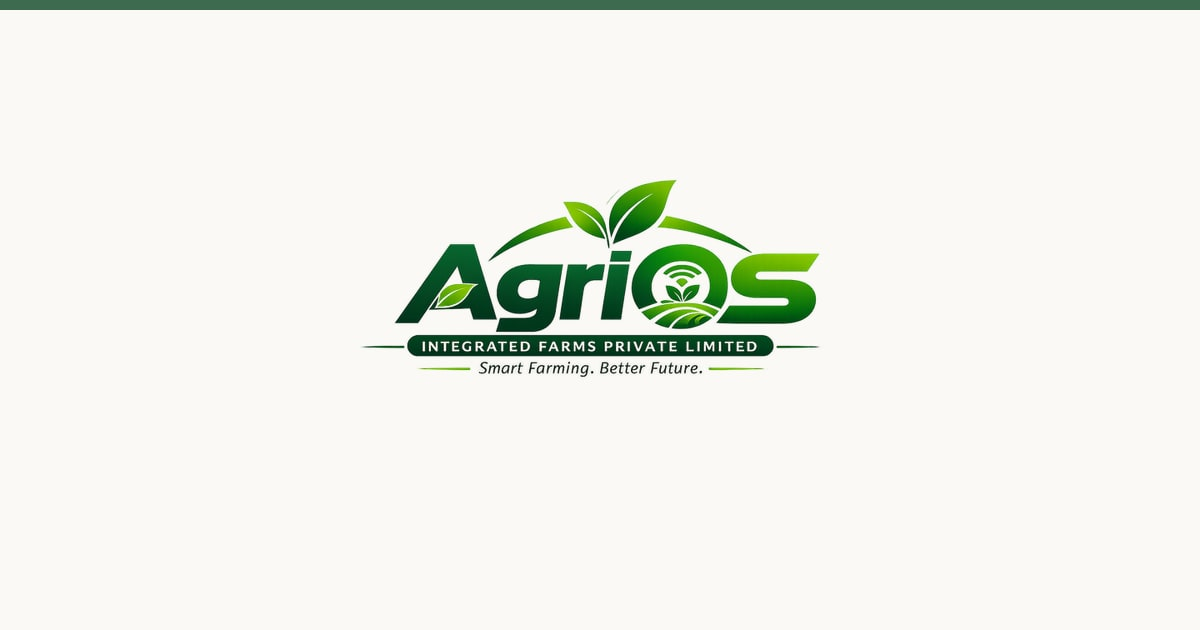
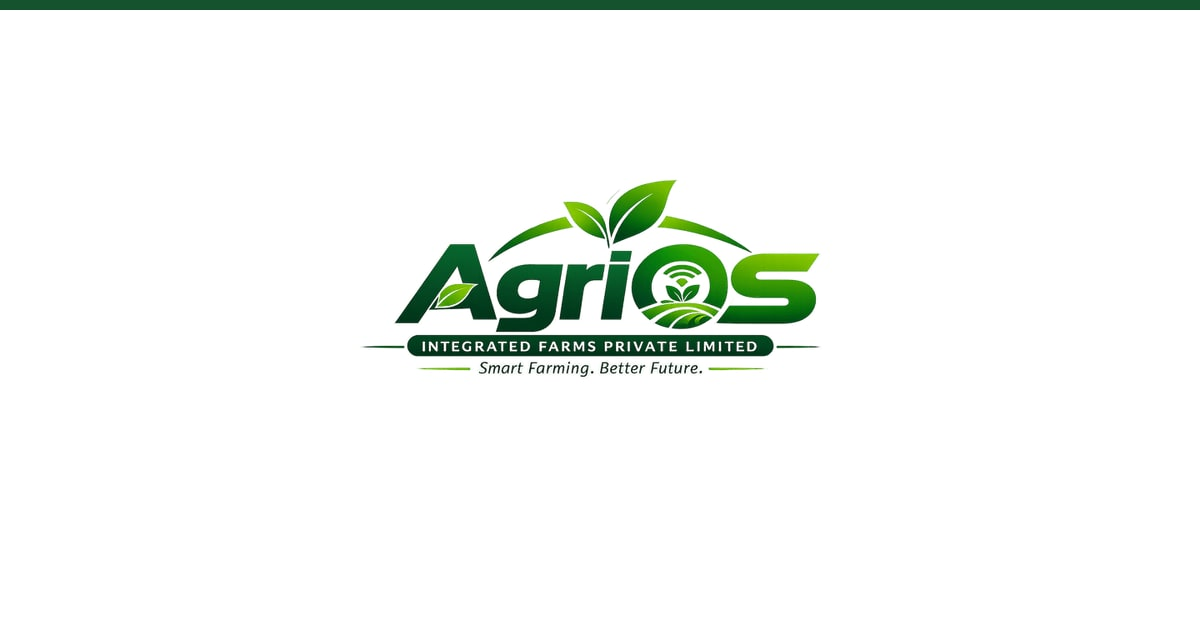
Retheme: deep forest green + bright green on white
- New palette: primary #14532D, accent #16A34A, bg #FFFFFF, text #0F1F16
- Remap terracotta accent -> bright green across buttons, pills, SVG cycle
- Warm neutrals -> cool green-grays; light-peach highlights on dark bands -> light green
- Regenerate og-image to match (white bg, deep-green accent bar)

Changed region(s): [[0.0, 0.0, 1.0, 0.0302]]

diff --git a/index.html b/index.html
@@ -59,16 +59,16 @@
 <link href="https://fonts.googleapis.com/css2?family=Hanken+Grotesk:wght@400;500;600;700&display=swap" rel="stylesheet">
 <style>
   :root{
-    --paper:#FAF9F5;
-    --paper-2:#F3F1E9;
-    --green:#3D6B4F;
-    --green-d:#2F5540;
-    --green-tint:#EDF1EA;
-    --clay:#CC785C;
-    --clay-tint:#F7EDE8;
-    --ink:#1A1A17;
-    --muted:#5A574E;
-    --line:#E4E0D5;
+    --paper:#FFFFFF;
+    --paper-2:#F4F8F5;
+    --green:#14532D;
+    --green-d:#0E3D20;
+    --green-tint:#E6F0E9;
+    --clay:#16A34A;
+    --clay-tint:#DCFCE7;
+    --ink:#0F1F16;
+    --muted:#4E5B54;
+    --line:#E4EAE5;
     --radius:14px;
     --maxw:1120px;
   }
@@ -88,7 +88,7 @@
   /* ---------- Header ---------- */
   header{
     position:sticky;top:0;z-index:50;
-    background:rgba(250,249,245,0.88);
+    background:rgba(255,255,255,0.85);
     backdrop-filter:blur(10px);
     border-bottom:1px solid var(--line);
   }
@@ -159,7 +159,7 @@
     background:#fff;border:1px solid var(--line);border-radius:var(--radius);
     padding:26px 24px;transition:transform .18s, box-shadow .18s;
   }
-  .card:hover{transform:translateY(-3px);box-shadow:0 8px 26px rgba(45,85,64,0.08)}
+  .card:hover{transform:translateY(-3px);box-shadow:0 8px 26px rgba(20,83,45,0.08)}
   .card .ic{
     width:44px;height:44px;border-radius:11px;background:var(--green-tint);color:var(--green);
     display:flex;align-items:center;justify-content:center;font-size:22px;margin-bottom:16px;
@@ -194,12 +194,12 @@
   .cnode:hover{transform:scale(1.06)}
   .cycle-center{font-family:'Hanken Grotesk',sans-serif}
   .cycle-panel{min-height:200px}
-  .cycle-panel .cp-tag{font-size:12px;letter-spacing:1.4px;text-transform:uppercase;font-weight:600;color:#F0C4B2;margin-bottom:10px;display:block}
+  .cycle-panel .cp-tag{font-size:12px;letter-spacing:1.4px;text-transform:uppercase;font-weight:600;color:#86EFAC;margin-bottom:10px;display:block}
   .cycle-panel h3{color:#fff;font-size:24px;margin-bottom:10px}
   .cycle-panel p{color:#DCE7DF;font-size:16px;line-height:1.6;margin-bottom:18px}
   .cycle-flow{display:flex;align-items:center;gap:8px;flex-wrap:wrap}
   .cycle-flow span{background:rgba(255,255,255,0.12);color:#fff;font-size:13px;font-weight:500;padding:6px 13px;border-radius:20px}
-  .cycle-flow .arr{background:none;color:#F0C4B2;padding:0;font-size:15px}
+  .cycle-flow .arr{background:none;color:#86EFAC;padding:0;font-size:15px}
   .cycle-hint{font-size:13px;color:#BFD6C7;margin-top:16px;font-style:italic}
   @media(max-width:860px){.cycle-wrap{grid-template-columns:1fr;gap:24px}.cycle-panel{min-height:auto}}
 
@@ -227,7 +227,7 @@
   .rm-step:last-child::before{right:50%}
   .rm-dot{width:30px;height:30px;border-radius:50%;background:var(--clay);color:#fff;display:flex;align-items:center;justify-content:center;font-size:13px;font-weight:600;position:relative;z-index:2;margin:0 auto 16px}
   .rm-step.done .rm-dot{background:#fff;color:var(--green-d)}
-  .rm-yr{font-size:12px;color:#F0C4B2;font-weight:600;text-align:center;margin-bottom:6px}
+  .rm-yr{font-size:12px;color:#86EFAC;font-weight:600;text-align:center;margin-bottom:6px}
   .rm-t{font-size:14px;font-weight:600;color:#fff;text-align:center;margin-bottom:6px}
   .rm-d{font-size:12.5px;color:#CFE0D4;text-align:center;line-height:1.45}
   @media(max-width:760px){.roadmap{grid-template-columns:1fr;gap:22px}.rm-step::before{display:none}.rm-dot{margin:0 0 10px}.rm-yr,.rm-t,.rm-d{text-align:left}}
@@ -244,7 +244,7 @@
 
   /* ---------- Gallery ---------- */
   .gallery{display:grid;grid-template-columns:repeat(3,1fr);gap:14px;margin-top:8px}
-  .gallery .gcell{aspect-ratio:4/3;border-radius:12px;background:var(--green-tint);border:1px dashed #B9CCC0;display:flex;flex-direction:column;align-items:center;justify-content:center;color:var(--green);gap:6px;overflow:hidden}
+  .gallery .gcell{aspect-ratio:4/3;border-radius:12px;background:var(--green-tint);border:1px dashed #C3D6C9;display:flex;flex-direction:column;align-items:center;justify-content:center;color:var(--green);gap:6px;overflow:hidden}
   .gallery .gcell.wide{grid-column:span 2}
   .gallery .gcell .gi{font-size:30px;opacity:.7}
   .gallery .gcell .gt{font-size:12.5px;color:var(--muted);font-weight:500}
@@ -302,7 +302,7 @@
   .prod-cat p{font-size:14.5px;color:var(--muted);margin-top:6px;max-width:56ch}
   .feed-feature{display:grid;grid-template-columns:1.1fr 1fr;gap:0;border-radius:var(--radius);overflow:hidden;border:1px solid var(--line);margin-top:8px}
   .feed-left{background:var(--green);color:#fff;padding:44px 42px}
-  .feed-left .fl-eye{font-size:12px;letter-spacing:1.6px;text-transform:uppercase;color:#F0C4B2;font-weight:600;margin-bottom:14px}
+  .feed-left .fl-eye{font-size:12px;letter-spacing:1.6px;text-transform:uppercase;color:#86EFAC;font-weight:600;margin-bottom:14px}
   .feed-left h2{font-size:30px;font-weight:600;color:#fff;margin-bottom:14px;line-height:1.15}
   .feed-left p{font-size:15.5px;color:#DCE7DF;line-height:1.6;margin-bottom:14px}
   .feed-left .fl-badge{display:inline-flex;align-items:center;gap:8px;background:rgba(255,255,255,0.12);padding:8px 14px;border-radius:20px;font-size:13px;font-weight:500;margin-top:4px}
@@ -322,7 +322,7 @@
     width:100%;padding:12px 14px;border:1px solid var(--line);border-radius:10px;
     font-family:inherit;font-size:15px;background:#fff;color:var(--ink);transition:border-color .18s, box-shadow .18s;
   }
-  .field input:focus,.field textarea:focus{outline:none;border-color:var(--green);box-shadow:0 0 0 3px rgba(61,107,79,.12)}
+  .field input:focus,.field textarea:focus{outline:none;border-color:var(--green);box-shadow:0 0 0 3px rgba(20,83,45,.14)}
   .field textarea{resize:vertical;min-height:120px}
   .contact-info{background:var(--green-tint);border-radius:var(--radius);padding:30px}
   .info-row{display:flex;gap:14px;align-items:flex-start;margin-bottom:22px}
@@ -336,19 +336,19 @@
   .note{font-size:12.5px;color:var(--muted);margin-top:10px}
 
   /* ---------- Footer ---------- */
-  footer{background:var(--ink);color:#CFCCC3;padding:52px 0 30px;margin-top:20px}
+  footer{background:var(--ink);color:#C4CFC8;padding:52px 0 30px;margin-top:20px}
   .foot-grid{display:grid;grid-template-columns:1.6fr 1fr 1fr;gap:36px;margin-bottom:34px}
   footer .brand{color:#fff;margin-bottom:14px}
   footer .brand .logo{background:var(--clay)}
   .footer-logo{width:132px;height:auto;background:#fff;border-radius:12px;padding:12px;margin-bottom:14px;display:block}
   .footer-tag{font-size:13px;color:var(--clay);font-weight:600;letter-spacing:.3px;margin-top:6px}
-  footer p{font-size:14px;color:#9F9C93;max-width:38ch}
-  footer h4{font-size:13px;text-transform:uppercase;letter-spacing:1px;color:#7C7970;margin-bottom:14px;font-weight:600}
+  footer p{font-size:14px;color:#93A099;max-width:38ch}
+  footer h4{font-size:13px;text-transform:uppercase;letter-spacing:1px;color:#75847C;margin-bottom:14px;font-weight:600}
   footer ul{list-style:none}
   footer ul li{margin-bottom:9px}
-  footer ul a{font-size:14px;color:#CFCCC3;cursor:pointer;transition:color .15s}
+  footer ul a{font-size:14px;color:#C4CFC8;cursor:pointer;transition:color .15s}
   footer ul a:hover{color:#fff}
-  .foot-bottom{border-top:1px solid #33322D;padding-top:22px;display:flex;justify-content:space-between;flex-wrap:wrap;gap:10px;font-size:13px;color:#7C7970}
+  .foot-bottom{border-top:1px solid #24332B;padding-top:22px;display:flex;justify-content:space-between;flex-wrap:wrap;gap:10px;font-size:13px;color:#75847C}
 
   /* ---------- Responsive ---------- */
   @media(max-width:860px){
@@ -641,27 +641,27 @@
               <text x="160" y="172" style="font-size:12px;fill:#BFD6C7">Cycle</text>
             </g>
             <g class="cnode" data-node="0" onclick="setCycle(0)" transform="translate(160,44)">
-              <circle r="30" fill="#CC785C"/>
+              <circle r="30" fill="#16A34A"/>
               <text class="cn-emoji" text-anchor="middle" y="-2">🐔</text>
               <text text-anchor="middle" y="16">Livestock</text>
             </g>
             <g class="cnode" data-node="1" onclick="setCycle(1)" transform="translate(258,132)">
-              <circle r="30" fill="#4E8063"/>
+              <circle r="30" fill="#2E7D4E"/>
               <text class="cn-emoji" text-anchor="middle" y="-2">🌿</text>
               <text text-anchor="middle" y="16">Compost</text>
             </g>
             <g class="cnode" data-node="2" onclick="setCycle(2)" transform="translate(220,250)">
-              <circle r="30" fill="#4E8063"/>
+              <circle r="30" fill="#2E7D4E"/>
               <text class="cn-emoji" text-anchor="middle" y="-2">🍌</text>
               <text text-anchor="middle" y="16">Crops</text>
             </g>
             <g class="cnode" data-node="3" onclick="setCycle(3)" transform="translate(100,250)">
-              <circle r="30" fill="#4E8063"/>
+              <circle r="30" fill="#2E7D4E"/>
               <text class="cn-emoji" text-anchor="middle" y="-2">🐟</text>
               <text text-anchor="middle" y="16">Ponds</text>
             </g>
             <g class="cnode" data-node="4" onclick="setCycle(4)" transform="translate(62,132)">
-              <circle r="30" fill="#CC785C"/>
+              <circle r="30" fill="#16A34A"/>
               <text class="cn-emoji" text-anchor="middle" y="-2">🌾</text>
               <text text-anchor="middle" y="16">Fodder</text>
             </g>
@@ -976,7 +976,7 @@
     </div>
     <div class="foot-bottom">
       <span>© 2026 AgriOS Integrated Farm Pvt Ltd. All rights reserved.</span>
-      <span>Jhargram, West Bengal, India · <a href="admin.html" style="color:#7C7970">Admin</a></span>
+      <span>Jhargram, West Bengal, India · <a href="admin.html" style="color:#75847C">Admin</a></span>
     </div>
   </div>
 </footer>
